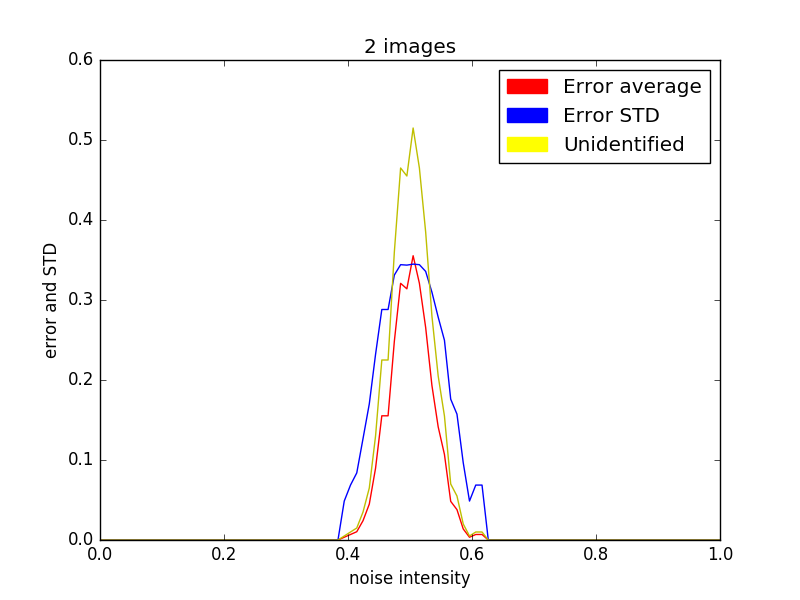
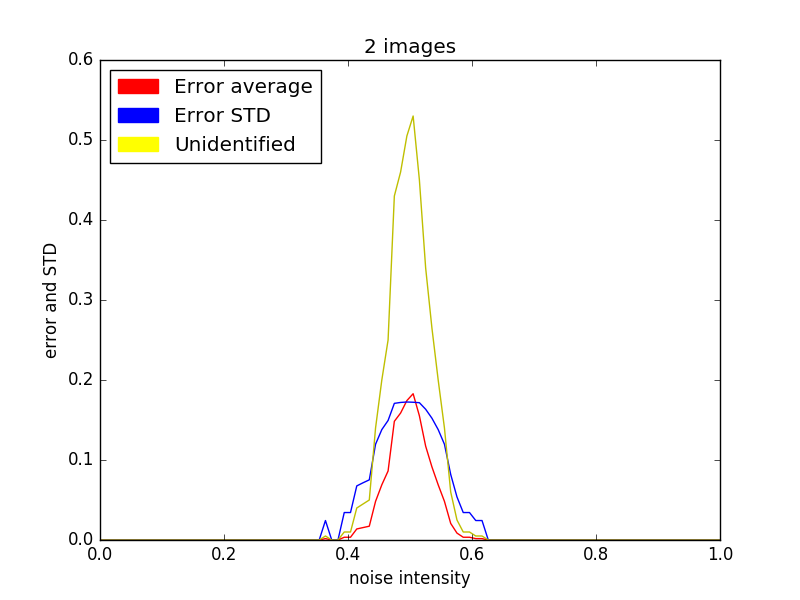
Completed

Changed region(s): [[0.125, 0.09, 0.4062, 0.3], [0.375, 0.21, 0.625, 0.9], [0.625, 0.09, 0.9062, 0.3]]

diff --git a/TP1-Hopfield-Network/main.py b/TP1-Hopfield-Network/main.py
@@ -80,7 +80,8 @@ if __name__ == '__main__':
                 images.append(i)
                 tlist.append(i.get_hnet_ready())
 
-            hnet = hn.HopfieldNetwork(config['vsize'])
+            hnet = hn.HopfieldNetwork(config['vsize'],
+                                      qmatrix=config['qmatrix'])
             hnet.train(tlist)
 
             total = config['times']
@@ -131,8 +132,14 @@ if __name__ == '__main__':
                     images.append(i)
                     tlist.append(i.get_hnet_ready())
 
-                hnet = hn.HopfieldNetwork(config['vsize'])
+                hnet = hn.HopfieldNetwork(config['vsize'],
+                                          qmatrix=config['qmatrix'])
                 hnet.train(tlist)
+                plt.figure()
+                plt.imshow(hnet.weigths())
+                plt.savefig(mconfig['output'] + config['name'] + '-w' +
+                            str(n_imgs) + '.png')
+                plt.close()
 
                 total = config['times']
                 noise = config['noise']
@@ -152,7 +159,42 @@ if __name__ == '__main__':
 
             plot_results(x_imgs, error_ev, error_var, corr_class,
                          "N images", config['name'])
-            plt.savefig(mconfig['output'] +
+            plt.savefig(mconfig['output']+config['name'] + '_' +
                         str(config['noise'])
                         + '_' + str(n_imgs) + '.png')
+    elif mconfig['mode'] == 'test':
+        for config in mconfig['experiences']:
+            print('\n=== EXPERIENCE: "{}" ==='.format(config['name']))
+            images = []
+            tlist = []
+
+            for ip in config['trainging_list']:
+                i = Image(config['base_path']+ip)
+                images.append(i)
+                tlist.append(i.get_hnet_ready())
+
+            hnet = hn.HopfieldNetwork(config['vsize'],
+                                      qmatrix=config['qmatrix'])
+            hnet.train(tlist)
+
+            noise = config['noise']
+            error_f = hn.ierror if config['error_method'] == 'inverse'\
+                else hn.error
+            selected = Image(config['base_path']+config['selected'])
+
+            img = selected.get_copy()
+            img.add_noise(noise)
+            hnet.set_state(img.get_hnet_ready())
+            plt.figure()
+            plt.imshow(selected.values)
+            plt.savefig(mconfig['output']+config['name']+'_selected.png')
+            plt.figure()
+            plt.imshow(img.values)
+            plt.savefig(mconfig['output']+config['name']+'_noisy.png')
+            recovered, counter = hnet.loop(100)
+            plt.figure()
+            plt.imshow(recovered.reshape(config['isize']))
+            plt.savefig(mconfig['output']+config['name']+'_reconstructed.png')
+            print("converged after {} iterations".format(counter))
+
     plt.show()

diff --git a/TP1-Hopfield-Network/hopfieldnet.py b/TP1-Hopfield-Network/hopfieldnet.py
@@ -2,22 +2,26 @@ import numpy as np
 
 
 def error(a, b):
-    err = np.sum(np.abs(a-b))/a.size
+    err = np.sum(np.abs(a-b))/(2*a.size)
     return err
 
 
 def ierror(a, b):
-    err = np.sum(np.abs(a-b))/a.size
-    ierr = np.sum(np.abs(a+b))/a.size
+    err = np.sum(np.abs(a-b))/(2*a.size)
+    ierr = np.sum(np.abs(a+b))/(2*a.size)
     return err if err < ierr else ierr
     # return err
 
 
 class HopfieldNetwork:
-    def __init__(self, count=400):
+    def __init__(self, count=400, qmatrix=True):
         self.__state__ = np.ones([1, count])
         self.__weigths__ = np.zeros([count, count])
         self.__count__ = count
+        self.__qmatrix__ = qmatrix
+
+    def weigths(self):
+        return self.__weigths__
 
     def set_state(self, state):
         self.__state__ = state
@@ -27,7 +31,10 @@ class HopfieldNetwork:
         v = np.zeros([len(training_list), training_list[0].size])
         for i in range(0, len(training_list)):
             v[i, :] = training_list[i][:]
-        self.__weigths__ = v.T.dot(np.linalg.inv(v.dot(v.T))).dot(v)
+        if self.__qmatrix__:
+            self.__weigths__ = v.T.dot(np.linalg.inv(v.dot(v.T))).dot(v)
+        else:
+            self.__weigths__ = v.T.dot(v)
 
     def __F__(self, h):
         return np.sign(h)
